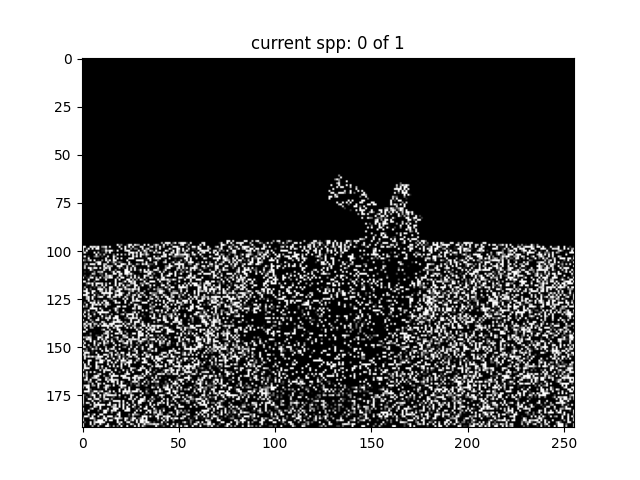
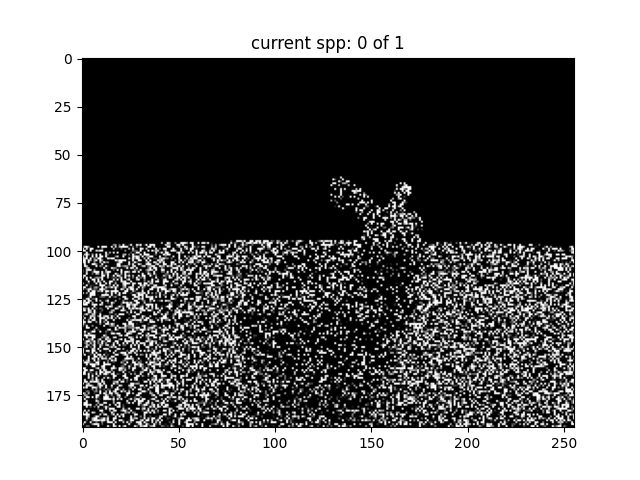
added comments

Changed region(s): [[0.125, 0.375, 0.9062, 0.9062]]

diff --git a/A2/260923645.py b/A2/260923645.py
@@ -103,6 +103,8 @@ class Sphere(Geometry):
         intersection distances (set to np.inf if none), and unit hit
         normals (set to [np.inf, np.inf, np.inf] if none.)
         """
+
+        # initialize hit_distances and hit_normals
         hit_distances = np.zeros((rays.Os.shape[0],), dtype=np.float64)
         hit_distances[:] = np.inf
         hit_normals = np.zeros(rays.Os.shape, dtype=np.float64)
@@ -111,29 +113,29 @@ class Sphere(Geometry):
         # BEGIN SOLUTION
         sphere_center, sphere_radius = self.c, self.r
         ray_directions, ray_origins = rays.Ds, rays.Os
+
+        # calculate As, Bs, Cs and discrimiments
         As = np.sum(ray_directions*ray_directions, axis=1)
         Bs = 2.0 * np.sum(ray_directions*(ray_origins - sphere_center), axis=1)
         Cs = np.sum((ray_origins - sphere_center)*(ray_origins -
                                                    sphere_center), axis=1) - (sphere_radius**2)
         discriminents = Bs**2 - (4*As*Cs)
 
-        # update distances
-        # check discriminent= 0 =
+        # UPDATE DISTANCES
+        # check discriminent == 0
         distances = (-Bs/(2*As))
         hit_distances = np.where(discriminents == 0, distances, hit_distances)
-
         # check discriminent > 0
         t1s = (-Bs + np.sqrt(discriminents)) / (2*As)
         t2s = (-Bs - np.sqrt(discriminents)) / (2*As)
         min_distances = np.minimum(t1s, t2s)
         hit_distances = np.where(
             discriminents > 0, min_distances, hit_distances)
-
         # check distance > epsilon_sphere
         hit_distances = np.where(
             hit_distances > self.EPSILON_SPHERE, hit_distances, np.inf)
 
-        # update normals
+        # UPDATE NORMALS
         hit_distances_transpose = np.array([hit_distances]).T
         point_hits = ray_origins + ray_directions*hit_distances_transpose
         hit_normals[hit_distances != np.inf] = normalize2D(
@@ -158,17 +160,21 @@ class Mesh(Geometry):
 
     def intersect(self, rays):
 
-        # when u use index
+        # initialize hit_distances and hit_normals
         hit_normals = np.tile(
             np.array([np.inf, np.inf, np.inf]), (len(rays.Os), 1))
         hit_distances, triangle_hit_ids, barys = ray_mesh_intersect(
             rays.Os, rays.Ds, self.v, self.f, use_embree=True)
+
+        # find indexes to update
         indexes_to_update = np.array(np.where(triangle_hit_ids != -1)[0])
 
+        # calculate aphas, betas and gammas
         alphas = np.array([barys[indexes_to_update][:, 0]]).T
         betas = np.array([barys[indexes_to_update][:, 1]]).T
         gammas = np.array([barys[indexes_to_update][:, 2]]).T
 
+        # update hit_normals on indexes_to_update
         hit_normals[indexes_to_update] = alphas*self.per_vectex_normals[self.f[triangle_hit_ids[indexes_to_update]][:, 0]] + betas * \
             self.per_vectex_normals[self.f[triangle_hit_ids[indexes_to_update]][:, 1]] + \
             gammas * \
@@ -222,55 +228,31 @@ class Scene(object):
         pixel into the scene.
         """
 
-        if jitter:
-            image_ratio = self.w / self.h
-            scale = math.tan(math.radians(self.fov * 0.5))
-            zc = normalize(self.at - self.eye)
-            ray_origin = self.eye
-            x_axis = np.cross(self.up, zc)
-            y_axis = np.cross(zc, x_axis)
-            cameraToWorld = np.array([
-                [x_axis[0], y_axis[0], zc[0], self.eye[0]],
-                [x_axis[1], y_axis[1], zc[1], self.eye[1]],
-                [x_axis[2], y_axis[2], zc[2], self.eye[2]],
-                [0, 0, 0, 1]
-            ])
-            # the 0.5 can be anything between 0 and 1
-            x = (2 * (np.arange(self.w) + random.uniform(0, 1)) /
-                 self.w - 1) * image_ratio * scale
-            y = (1 - 2 * (np.arange(self.h) + random.uniform(0, 1)) / self.h) * scale
-            XX, YY = np.meshgrid(x, y)
-            XX_flat, YY_flat, size = XX.flatten(), YY.flatten(), XX.size
-            ray_direction = np.dot(cameraToWorld, np.array(
-                [XX_flat, YY_flat, np.ones(size), np.zeros(size)]))
-            ray_direction = ray_direction[:3].T
-            ray_direction = list(map(normalize, ray_direction))  # change
-            return Rays(np.tile(ray_origin, (len(ray_direction), 1)), np.array(ray_direction))
-
-        else:
-            image_ratio = self.w / self.h
-            scale = math.tan(math.radians(self.fov * 0.5))
-            zc = normalize(self.at - self.eye)
-            ray_origin = self.eye
-            x_axis = np.cross(self.up, zc)
-            y_axis = np.cross(zc, x_axis)
-            cameraToWorld = np.array([
-                [x_axis[0], y_axis[0], zc[0], self.eye[0]],
-                [x_axis[1], y_axis[1], zc[1], self.eye[1]],
-                [x_axis[2], y_axis[2], zc[2], self.eye[2]],
-                [0, 0, 0, 1]
-            ])
-            x = (2 * (np.arange(self.w) + 0.5) /
-                 self.w - 1) * image_ratio * scale
-            y = (1 - 2 * (np.arange(self.h) + 0.5) / self.h) * scale
-            XX, YY = np.meshgrid(x, y)
-            XX_flat, YY_flat, size = XX.flatten(), YY.flatten(), XX.size
-            ray_direction = np.dot(cameraToWorld, np.array(
-                [XX_flat, YY_flat, np.ones(size), np.zeros(size)]))
-            ray_direction = ray_direction[:3].T
-            ray_direction = list(map(normalize, ray_direction))
-            return Rays(np.tile(ray_origin, (len(ray_direction), 1)), np.array(ray_direction))
-        # END SOLUTION
+        image_ratio = self.w / self.h
+        scale = math.tan(math.radians(self.fov * 0.5))
+        zc = normalize(self.at - self.eye)
+        ray_origin = self.eye
+        x_axis = np.cross(self.up, zc)
+        y_axis = np.cross(zc, x_axis)
+        cameraToWorld = np.array([
+            [x_axis[0], y_axis[0], zc[0], self.eye[0]],
+            [x_axis[1], y_axis[1], zc[1], self.eye[1]],
+            [x_axis[2], y_axis[2], zc[2], self.eye[2]],
+            [0, 0, 0, 1]
+        ])
+        # offset is assigned based on value of jitter
+        offset1 = random.uniform(0, 1) if jitter else 0.5
+        offset2 = random.uniform(0, 1) if jitter else 0.5
+        x = (2 * (np.arange(self.w) + offset1) /
+             self.w - 1) * image_ratio * scale
+        y = (1 - 2 * (np.arange(self.h) + offset2) / self.h) * scale
+        XX, YY = np.meshgrid(x, y)
+        XX_flat, YY_flat, size = XX.flatten(), YY.flatten(), XX.size
+        ray_direction = np.dot(cameraToWorld, np.array(
+            [XX_flat, YY_flat, np.ones(size), np.zeros(size)]))
+        ray_direction = ray_direction[:3].T
+        ray_direction = list(map(normalize, ray_direction))  # change
+        return Rays(np.tile(ray_origin, (len(ray_direction), 1)), np.array(ray_direction))
 
     def intersect(self, rays):
         """
@@ -279,7 +261,6 @@ class Scene(object):
         """
 
         # BEGIN SOLUTION
-        # Instead of self.spheres, use self.geometries. Normals are already calculated.
 
         hit_distances = np.tile(np.inf, len(rays.Os))
         hit_normals = np.tile(
@@ -316,6 +297,7 @@ class Scene(object):
         # initialize the output "image" (i.e., vector; still needs to be reshaped)
         L = np.zeros(normals.shape, dtype=np.float64)
 
+        # Generate random Ws
         sigma1s = np.random.rand(len(eye_rays.Os))
         sigma2s = np.random.rand(len(eye_rays.Os))
         wzs = 2*sigma1s - 1
@@ -325,13 +307,17 @@ class Scene(object):
         wys = rs*np.sin(thetas)
         Ws = np.stack((wxs, wys, wzs), axis=1)
 
+        # Calculate Mont-Carlo Estimator
         constants = (2*brdf_params)/num_samples
         Xs = hit_points + shadow_ray_o_offset*normals
+        # Create shadow_rays
         shadow_rays = Rays(Xs, Ws)
         hit_distances, hit_normals, hit_ids = self.intersect(shadow_rays)
+        # Set visibilities
         visibilities = np.zeros(len(eye_rays.Os))
         visibilities = np.where(hit_distances != np.inf, visibilities, 1)
 
+        # add values inside sum
         sum_values = np.zeros(len(eye_rays.Os))
         for _ in range(num_samples):
             product = np.sum(normals*Ws, axis=1)
